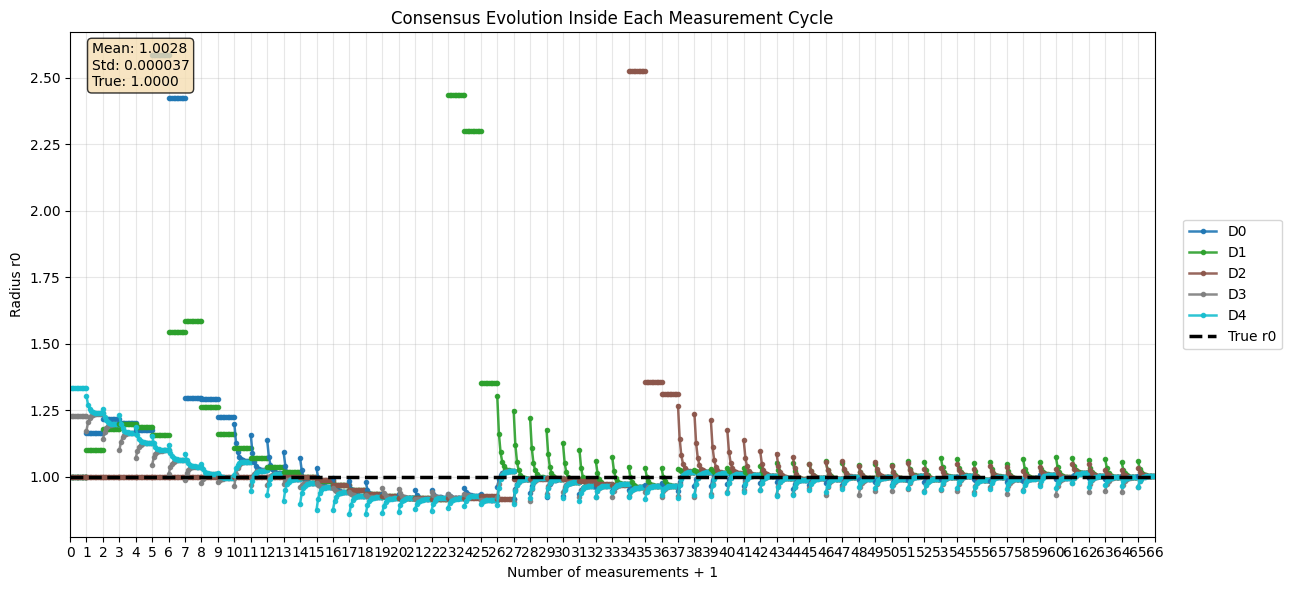
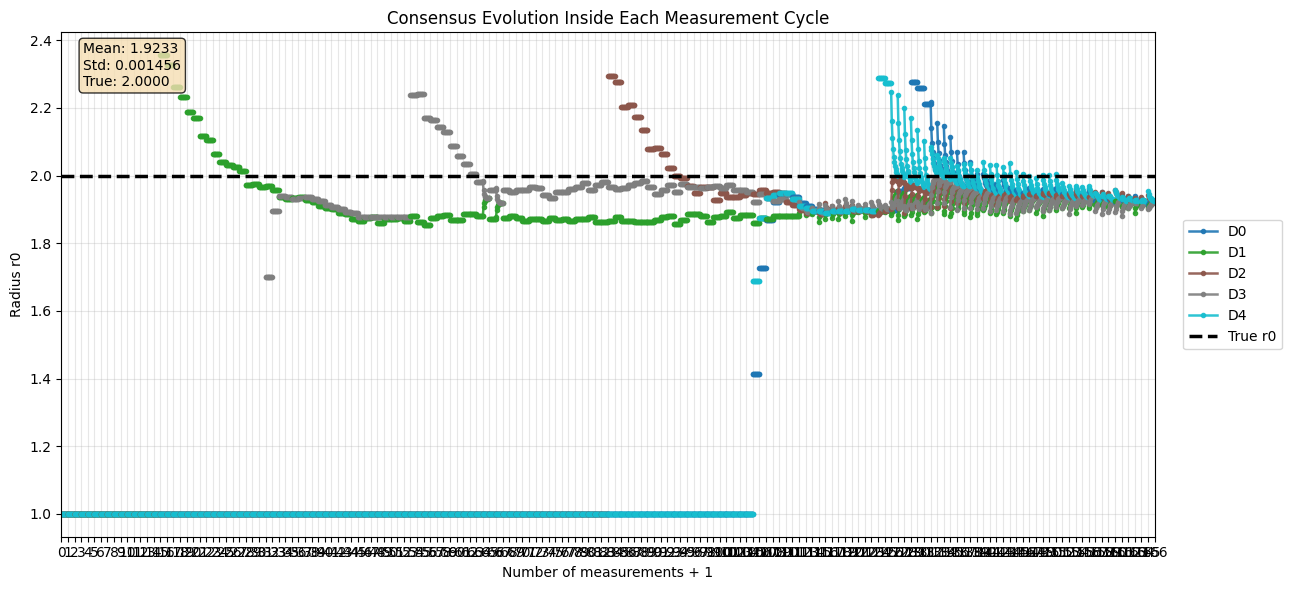
theroretical fixes

diff --git a/simulation_engine.py b/simulation_engine.py
@@ -21,6 +21,7 @@ class SimulationEngine:
         control_gain=1.8,
         max_speed=0.6,
         voronoi_grid_step=8,
+        boundary_tangent_band=0.35,
     ):
         self.sim_map = sim_map
         self.oil_spill = oil_spill
@@ -50,8 +51,9 @@ class SimulationEngine:
         self.control_gain = float(control_gain)
         self.max_speed = float(max_speed)
         self.voronoi_grid_step = max(1, int(voronoi_grid_step))
-        self.boundary_detection_oil_fraction_min = 0.02
-        self.exploration_oil_fraction_threshold = 0.98
+        self.boundary_tangent_band = float(boundary_tangent_band)
+        self.boundary_detection_oil_fraction_min = 0.05
+        self.exploration_oil_fraction_threshold = 0.95
 
         dx = self.sim_map.x_coords[1] - self.sim_map.x_coords[0] if len(self.sim_map.x_coords) > 1 else 1.0
         dy = self.sim_map.y_coords[1] - self.sim_map.y_coords[0] if len(self.sim_map.y_coords) > 1 else 1.0
@@ -62,7 +64,8 @@ class SimulationEngine:
         self.control_y_coords = self._sample_axis(self.sim_map.y_coords, self.voronoi_grid_step)
         self.control_X, self.control_Y = np.meshgrid(self.control_x_coords, self.control_y_coords)
         self.control_points = np.column_stack((self.control_X.ravel(), self.control_Y.ravel()))
-        self.control_density = self._boundary_density(self.control_X, self.control_Y).ravel()
+        # No ground-truth radius is used in control; this is kept as a neutral fallback.
+        self.control_density = np.zeros_like(self.control_X, dtype=float).ravel()
 
         # History for plotting local measurements and consensus convergence.
         self.estimates_history = {}
@@ -75,9 +78,23 @@ class SimulationEngine:
             sampled = np.append(sampled, float(coords[-1]))
         return sampled
 
-    def _boundary_density(self, X, Y):
+    def _boundary_density(self, X, Y, x0=None, y0=None, r0=None):
         """Weight the Voronoi centroids toward the spill boundary."""
-        field = self.oil_spill.field(X, Y)
+        if x0 is None:
+            x0 = self.oil_spill.x0
+        if y0 is None:
+            y0 = self.oil_spill.y0
+
+        if r0 is None:
+            return np.zeros_like(X, dtype=float)
+
+        dist = np.sqrt((X - x0) ** 2 + (Y - y0) ** 2)
+        sigma = float(getattr(self.oil_spill, "sigma", 0.5))
+        field = np.where(
+            dist <= r0,
+            1.0,
+            np.exp(-((dist - r0) ** 2) / (2 * sigma**2)),
+        )
         return np.clip(4.0 * field * (1.0 - field), 0.0, None)
 
     def add_drone(self, drone_id, x, y):
@@ -179,9 +196,9 @@ class SimulationEngine:
         )
         if camera_view.size == 0:
             drone.edge_detected = False
-            drone.last_edge_point = None
             drone.last_gradient_peak = None
             drone.last_oil_fraction = None
+            drone.last_r0_local = None
             return {
                 "edge_x": np.nan,
                 "edge_y": np.nan,
@@ -199,9 +216,9 @@ class SimulationEngine:
             or oil_fraction >= self.exploration_oil_fraction_threshold
         ):
             drone.edge_detected = False
-            drone.last_edge_point = None
             drone.last_gradient_peak = 0.0
             drone.last_oil_fraction = oil_fraction
+            drone.last_r0_local = None
             return {
                 "edge_x": np.nan,
                 "edge_y": np.nan,
@@ -238,9 +255,9 @@ class SimulationEngine:
             or j_max == len(self.sim_map.y_coords)
         ):
             drone.edge_detected = False
-            drone.last_edge_point = None
             drone.last_gradient_peak = 0.0
             drone.last_oil_fraction = oil_fraction
+            drone.last_r0_local = None
             return {
                 "edge_x": np.nan,
                 "edge_y": np.nan,
@@ -264,9 +281,9 @@ class SimulationEngine:
 
         if edge_pixels.size == 0:
             drone.edge_detected = False
-            drone.last_edge_point = None
             drone.last_gradient_peak = None
             drone.last_oil_fraction = None
+            drone.last_r0_local = None
             return {
                 "edge_x": np.nan,
                 "edge_y": np.nan,
@@ -304,6 +321,7 @@ class SimulationEngine:
         drone.last_edge_point = nearest_edge_point
         drone.last_gradient_peak = float(np.count_nonzero(edges))
         drone.last_oil_fraction = oil_fraction
+        drone.last_r0_local = r0_local
         drone.estimate_r0 = r0_local
 
         return {
@@ -318,7 +336,11 @@ class SimulationEngine:
         }
 
     def _compute_voronoi_targets(self):
-        """Compute one weighted Voronoi centroid per drone on a sampled grid."""
+        """Compute one weighted Voronoi centroid per drone on a sampled grid.
+
+        Each drone uses its own post-consensus radius estimate to weight the
+        centroid of its Voronoi cell.
+        """
         if not self.drones:
             return {}
 
@@ -329,7 +351,6 @@ class SimulationEngine:
         assignment = np.argmin(dist2, axis=1)
 
         targets = {}
-        density = self.control_density
         for idx, drone in enumerate(self.drones):
             mask = assignment == idx
             if not np.any(mask):
@@ -337,7 +358,20 @@ class SimulationEngine:
                 continue
 
             cell_points = points[mask]
-            cell_weights = density[mask]
+            r0_est = getattr(drone, "estimate_r0", None)
+            if r0_est is None:
+                r0_est = 1.0
+            r0_est = float(r0_est)
+            if not np.isfinite(r0_est) or r0_est <= 0.0:
+                r0_est = 1.0
+
+            cell_weights = self._boundary_density(
+                self.control_X,
+                self.control_Y,
+                x0=float(getattr(drone, "estimate_x0", self.true_x0)),
+                y0=float(getattr(drone, "estimate_y0", self.true_y0)),
+                r0=r0_est,
+            ).ravel()[mask]
             weight_sum = float(np.sum(cell_weights))
             if weight_sum <= 1e-12:
                 centroid = np.mean(cell_points, axis=0)
@@ -347,24 +381,72 @@ class SimulationEngine:
 
         return targets
 
+    def _tangential_boundary_command(self, command, drone, gps_pos):
+        """Remove the radial component when the drone is close to the boundary.
+
+        The boundary normal is approximated from the spill center to the drone
+        position, which keeps the motion tangent to a circular spill boundary.
+        """
+        if not getattr(drone, "edge_detected", False):
+            return command, False
+
+        edge_point = getattr(drone, "last_edge_point", None)
+        if edge_point is None:
+            return command, False
+
+        edge_point = np.asarray(edge_point, dtype=float)
+        if not np.all(np.isfinite(edge_point)):
+            return command, False
+
+        boundary_error = edge_point - gps_pos
+        distance_to_edge = float(np.linalg.norm(boundary_error))
+        if distance_to_edge > self.boundary_tangent_band:
+            return command, False
+
+        center = np.array([float(getattr(drone, "estimate_x0", self.true_x0)), float(getattr(drone, "estimate_y0", self.true_y0))], dtype=float)
+        normal = gps_pos - center
+        normal_norm = float(np.linalg.norm(normal))
+        if normal_norm <= 1e-12:
+            normal = edge_point - center
+            normal_norm = float(np.linalg.norm(normal))
+        if normal_norm <= 1e-12:
+            return command, False
+
+        normal_unit = normal / normal_norm
+        tangential_command = command - np.dot(command, normal_unit) * normal_unit
+        tangential_speed = float(np.linalg.norm(tangential_command))
+        if tangential_speed <= 1e-12:
+            return np.zeros_like(command), True
+        return tangential_command, True
+
     def _apply_voronoi_control(self):
-        """Single-integrator motion toward the weighted Voronoi centroid."""
+        """Single-integrator motion toward the weighted Voronoi centroid.
+
+        Each drone uses its own estimated radius to build the weighted Voronoi
+        target. When the drone is near the detected boundary, the command is
+        projected onto the tangent direction so it moves along the contour
+        instead of cutting radially through it.
+        """
         targets = self._compute_voronoi_targets()
         for drone in self.drones:
             if getattr(drone, "has_radius_estimate", False):
                 target = np.asarray(targets.get(drone.drone_id, (drone.x, drone.y)), dtype=float)
-                error = target - np.array([drone.x, drone.y], dtype=float)
-                command = self.control_gain * error
+                gps_pos = np.asarray(drone.get_gps_pos(), dtype=float)
+                command = self.control_gain * (target - gps_pos)
+                command, tangentialized = self._tangential_boundary_command(command, drone, gps_pos)
+                drone.last_boundary_tangential = bool(tangentialized)
+                drone.last_control_mode = "voronoi"
+                drone.last_voronoi_target = (float(target[0]), float(target[1]))
+                drone.last_exploration_target = None
                 speed = float(np.linalg.norm(command))
                 if self.max_speed > 0 and speed > self.max_speed:
                     command = command / speed * self.max_speed
-
-                drone.last_voronoi_target = (float(target[0]), float(target[1]))
-                drone.last_exploration_target = None
             else:
                 command = self._bounce_exploration_command(drone)
                 drone.last_exploration_target = (float(drone.x + command[0]), float(drone.y + command[1]))
                 drone.last_voronoi_target = None
+                drone.last_boundary_tangential = False
+                drone.last_control_mode = "explore"
 
             drone.set_control(float(command[0]), float(command[1]))
             drone.update_position(self.dt, map_bounds=drone.map_bounds, max_speed=self.max_speed)
@@ -631,12 +713,15 @@ class SimulationEngine:
         self._apply_voronoi_control()
         print("CONTROL:")
         for drone in self.drones:
-            mode = "voronoi" if getattr(drone, "has_radius_estimate", False) else "explore"
+            mode = getattr(drone, "last_control_mode", None)
+            if mode is None:
+                mode = "voronoi" if getattr(drone, "has_radius_estimate", False) else "explore"
             target = drone.last_voronoi_target if mode == "voronoi" else drone.last_exploration_target
+            tangential = "tangent" if getattr(drone, "last_boundary_tangential", False) else "none"
             print(
                 f"{drone.drone_id}: pos=({drone.x:.3f}, {drone.y:.3f}), "
                 f"u=({drone.u_x:.3f}, {drone.u_y:.3f}), "
-                f"mode={mode}, target={target}"
+                f"mode={mode}, target={target}, boundary_mode={tangential}"
             )
 
         if measurement_frame:

diff --git a/drone.py b/drone.py
@@ -29,7 +29,10 @@ class Drone:
         self.edge_detected = False
         self.last_gradient_peak = None
         self.last_edge_point = None
+        self.last_r0_local = None
         self.last_oil_fraction = None
+        self.last_boundary_tangential = False
+        self.last_control_mode = None
         self.u_x = 0.0
         self.u_y = 0.0
         self.last_voronoi_target = None
